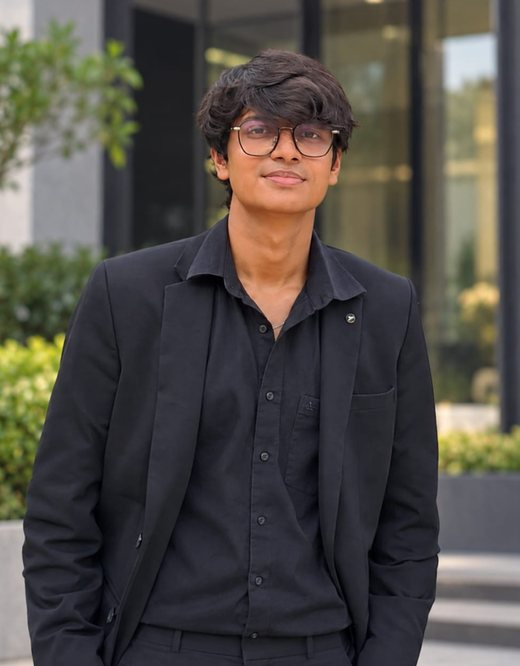
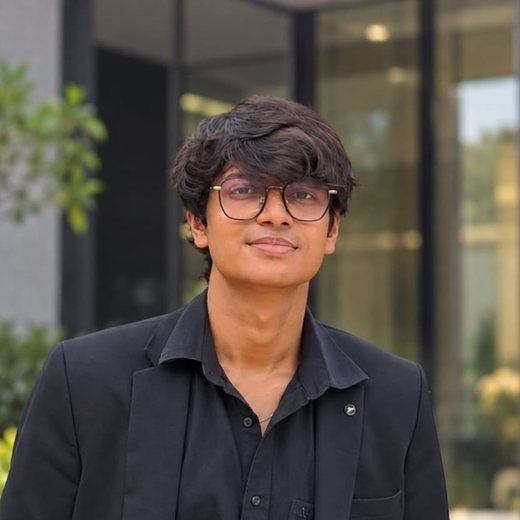
About: circular portrait with accent ring
Claude-Session: https://claude.ai/code/session_01CeJxkAaPLgG5k6NpRBybnp

diff --git a/index.html b/index.html
@@ -72,7 +72,7 @@
     <div class="kicker">ABOUT / 01</div>
     <h2>About Me</h2>
     <div class="about-grid">
-      <figure class="about-photo"><img src="img/arghyadeep.jpg" width="520" height="666" alt="Portrait of Arghyadeep Deb" loading="lazy" decoding="async"></figure>
+      <figure class="about-photo"><img src="img/arghyadeep.jpg" width="520" height="520" alt="Portrait of Arghyadeep Deb" loading="lazy" decoding="async"></figure>
       <div class="about-body">
       <p class="about-text">I'm an AI/ML engineer and B.Tech CSE (AI/ML) student at the Kalinga Institute of Industrial Technology (KIIT), class of 2027, based in Bhubaneswar. I build <b>multi-agent systems, RAG pipelines and explainable, fairness-aware ML models</b> and take them from training through to deployment.</p>
       <p class="about-text">I've completed AI/ML internships at Cygnatrix IT Solutions, Intrainz and the State Bank of India. At Cygnatrix I designed the AI layer and backend of Grove, a LangGraph-based knowledge platform. Outside work, most of my time goes into V.E.C.T.O.R., an autonomous multi-agent system I'm building solo.</p>

diff --git a/css/style.css b/css/style.css
@@ -351,8 +351,8 @@ a:focus-visible, button:focus-visible {
 .about-grid { display: grid; grid-template-columns: 260px minmax(0, 1fr); gap: 44px; align-items: start; }
 .about-body { display: flex; flex-direction: column; gap: 18px; min-width: 0; }
 .about-body .about-text { margin: 0; }
-.about-photo { margin: 0; border: 1px solid var(--line); padding: 8px; background: var(--card); position: sticky; top: 110px; }
-.about-photo img { display: block; width: 100%; height: auto; aspect-ratio: 520 / 666; object-fit: cover; }
+.about-photo { margin: 0; border: 1px solid var(--accent); border-radius: 50%; padding: 6px; background: var(--card); position: sticky; top: 110px; box-shadow: 0 0 28px rgba(var(--accent-rgb), 0.18); }
+.about-photo img { display: block; width: 100%; height: auto; aspect-ratio: 1 / 1; object-fit: cover; border-radius: 50%; }
 @media (max-width: 760px) {
   .about-grid { grid-template-columns: minmax(0, 1fr); gap: 24px; }
   .about-photo { max-width: 220px; position: static; }
